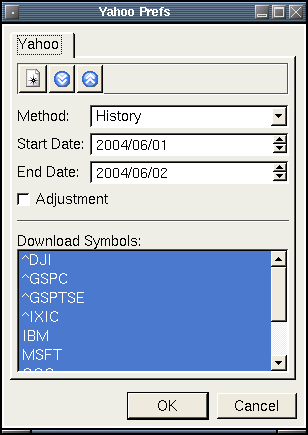
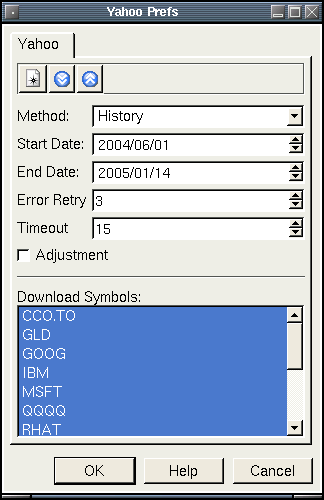
20050118134700

diff --git a/docs/math.html b/docs/math.html
@@ -12,20 +12,31 @@
 This plugin is only used in <a
  href="file:///home/me/mystuff/prog/qtstalker/docs/cus.html">CUS</a>
 type formulas. This plugin is used to either add, divide, multiply or
-subtract the
-data1 array by the data2 array.<br>
+subtract data arrays or value constants. You can select up to 5
+seperate data arrays or constants. The math follows a linear logic in
+the way the arrays are used. The plugin goes from data1 to data2 to
+data3 all the way to data5. So the order of how you set the various
+data arrays is critical for the result desired.<br>
 <br>
-Example: If the method used was ADD, then the Data1 array value would
-be added to the Data2 array value and the result returned. If the
-method used was DIV, then the Data1 array value would be divided by the
-Data2 array value and the result returned.<br>
+For example: We decide to add some data. We set data1 to use step 1. We
+set data2 to use step 2. We set data3 to a constant value of 1.5. This
+means the plugin would take the data1 array and then add the data2
+array to it. Finally the value constant of data3 is added to the sum of
+data1 and data2. This works the same for all the math functions of
+Add/Subtract/Divide/Multiply. In written math it would like this
+((data1 + data2) + data3).<br>
+<br>
+Using the above example and multiplying instead. The logic would take
+data1 and multiply it by data2. Then data3 would be multiplied with the
+result of data1 x data2. In written math it would like this ((data1 *
+data2) * data3). <br>
 <br>
 <h3>Parameters:</h3>
 <ul>
   <li>Color - plot color</li>
   <li>Line Type - The type of plot to draw</li>
   <li>Label - The text that identifies the plot</li>
-  <li><a href="ctypes.html">Data1</a> - The step # in a CUS formula<br>
+  <li><a href="ctypes.html">Data1</a> - The step # in a CUS formula.<br>
   </li>
   <li>Method - The math function to apply.</li>
   <ul>
@@ -40,12 +51,21 @@ division</li>
   <li><a href="file:///home/me/mystuff/prog/qtstalker/docs/ctypes.html">Data2</a>
 - The step # or constant value in
 a CUS formula</li>
+  <li><a href="ctypes.html">Data3</a> - The step # or constant value in
+a CUS formula</li>
+  <li><a href="ctypes.html">Data4</a> - The step # or constant value in
+a CUS formula</li>
+  <li><a href="ctypes.html">Data5</a> - The step # or constant value in
+a CUS formula</li>
   <li>Period - The period used for MIN and MAX functions only.</li>
 </ul>
 <ul>
 </ul>
 <br>
 <br>
+ border="0" height="32" width="32"></a>
+ border="0" height="32" width="32"></a><a href="toc.html"><img
+ src="home.png" alt="Home" border="0" height="32" width="32"></a>
 <a href="lowpass.html" target="_self"><img src="back.png" border="0" width="32" height="32" alt="Back"></a>
 <a href="ma.html" target="_self"><img src="next.png" border="0" width="32" height="32" alt="Next"></a>
 <a href="toc.html"><img src="home.png" border="0" width="32" height="32" alt="Home"></a>

diff --git a/docs/yahoo.html b/docs/yahoo.html
@@ -15,8 +15,7 @@
 supported exchanges are available
 with this plugin.<br>
 </p>
-<p><br>
-</p>
+<br>
 <h4>Adjustments:</h4>
 Yahoo provides an Adjusted Close column in its data,
 scaling prior closing prices to the most recent price based on stock
@@ -39,25 +38,39 @@ prices.<br>
 Most of the yahoo exchanges (except NA markets) have a 200 bar limit to
 the number of historical quotes that can be downloaded at one time. A
 work around for this is to download the data you need by doing it in
-several chunks of 250 days at a time. So, gettting many years worth of
+several chunks of 6 month intervals. So, gettting many years worth of
 data would take 6 or 7 download sessions by adjusting the start and end
-dates by 250 days at a time.<br>
+dates by 6 months at a time.<br>
 <br>
 <br>
 <h3>Input Parameters:</h3>
 <ul>
-  <li>Method - History for multiple quotes within the start and end
-dates input, or the most current single quote to download.<br>
+  <li>Method - The type of download quote data you want:<br>
   </li>
-  <li>End Date - The most recent date to include for update.</li>
-  <li>Start Date - The most distant date to include for update.</li>
+  <ul>
+    <li>History - Update history using a specific date range.<br>
+    </li>
+    <li>Auto History - Updates to the most recent history.<br>
+    </li>
+    <li>Quote - Updates the most recent intraday delayed quote.<br>
+    </li>
+  </ul>
+  <li>End Date - The most recent date to include for update. Used only
+for History method.<br>
+  </li>
+  <li>Start Date - The most distant date to include for update. Used
+only for History method.</li>
+  <li>Error Retry - The number of attempts to make if an error
+downloading the symbol occurs.</li>
+  <li>Timeout - The number of seconds to wait while downloading a
+symbol before moving on to the next symbol in the list.</li>
   <li>Adjustment - Propagate the Close/Adjusted Close factor to all
 price columns (i.e. adjust for stock splits and dividends).</li>
   <li>Download Symbols - Select the symbols to download by highlighting
 them.</li>
 </ul>
 <p></p>
-<img style="width: 308px; height: 435px;" alt="" src="yahoo1.png"><br>
+<img alt="" src="yahoo1.png" style="width: 324px; height: 500px;"><br>
 <p></p>
 <p></p>
 <p><br>
@@ -73,6 +86,9 @@ you want to download quotes.<br>
 <p><br>
 </p>
 <br>
+ border="0" height="32" width="32"></a>
+ border="0" height="32" width="32"></a><a href="toc.html"><img
+ src="home.png" alt="Home" border="0" height="32" width="32"></a>
 <a href="qtstalker.html" target="_self"><img src="back.png" border="0" width="32" height="32" alt="Back"></a>
 <a href="buyarrow.html" target="_self"><img src="next.png" border="0" width="32" height="32" alt="Next"></a>
 <a href="toc.html"><img src="home.png" border="0" width="32" height="32" alt="Home"></a>

diff --git a/docs/quick.html b/docs/quick.html
@@ -12,21 +12,28 @@
 <ol>
   <li>Connect to the internet.</li>
   <li>Open the quotes dialog from the toolbar.</li>
-  <li>Select the Yahoo plugin. Press the "New Chart" button. Click on
-the "New Symbols" item in the list.</li>
-  <li>Enter as many ticker symbols as you want separated by a space ie
-'RHAT IBM MSFT'. When done, press the OK button.</li>
-  <li>Press the settings button. Select the start and end dates you
-want quotes to include and press OK when done.<br>
+  <li>Select the Yahoo plugin. Press the configure 'Settings' button.
+This will bring up the Yahoo Prefs dialog.<br>
   </li>
-  <li>Press the update button, and the download will start. Depending
+  <li>From the Yahoo Prefs dialog press the 'New Symbol' button from
+the toolbar. This brings up the 'New Yahoo Symbols' dialog.<br>
+  </li>
+  <li>From the 'New Yahoo Symbols' dialog enter as many ticker symbols
+as you want separated by a space ie
+'RHAT IBM MSFT'. When done, press the OK button.</li>
+  <li>From the Yahoo Prefs dialog select 'Auto History' from the method
+box. Press the 'Select All Symbols' from the toolbar. Press OK when
+done.<br>
+  </li>
+  <li>From the Quotes dialog press the update button, and the download
+will start. Depending
 on how fast your connection is this could take anywhere from 10
 seconds to a few minutes. The data will be imported into Qtstalker
 when completed.</li>
   <li>Close the quotes dialog when download has completed. To load some
 charts, select the chart panel button. You should see a directory
 called
-"Stocks". Select the directory. A list of the symbols you entered
+'Stocks'. Select the directory. A list of the symbols you entered
 earlier will appear. Select a symbol to load by clicking on it.</li>
   <li>To add indicators, open the new indicator dialog from the toolbar
 and choose an indicator from the list. The indicator dialog will open,
@@ -39,6 +46,9 @@ familiar with how Qtstalker works.</li>
 <p></p>
 <p></p>
 <br>
+ border="0" height="32" width="32"></a>
+ border="0" height="32" width="32"></a><a href="toc.html"><img
+ src="home.png" alt="Home" border="0" height="32" width="32"></a>
 <a href="install.html" target="_self"><img src="back.png" border="0" width="32" height="32" alt="Back"></a>
 <a href="main.html" target="_self"><img src="next.png" border="0" width="32" height="32" alt="Next"></a>
 <a href="toc.html"><img src="home.png" border="0" width="32" height="32" alt="Home"></a>

diff --git a/docs/symbol.html b/docs/symbol.html
@@ -1,0 +1,39 @@
+<!DOCTYPE html PUBLIC "-//W3C//DTD HTML 4.01 Transitional//EN">
+<html>
+<head>
+  <title>Qtstalker: Symbol - SYMBOL</title>
+  <meta http-equiv="content-type"
+ content="text/html; charset=ISO-8859-1">
+</head>
+<body>
+<h2><u>Symbol - SYMBOL<br>
+</u></h2>
+<img alt="" src="symbol1.png" style="width: 415px; height: 191px;"><br>
+&nbsp;
+<br>
+<h3>Parameters:</h3>
+<ul>
+  <li>Color - Plot color</li>
+  <li>Line Type - The type of plot to draw</li>
+  <li>Label - The text that identifies the plot</li>
+  <li>Symbol - The symbol (ticker) to use<br>
+  </li>
+</ul>
+<h3>Description:</h3>
+Plots the close of a qtstalker symbol (ticker). This has many uses:<br>
+<br>
+1) If you want to compare a particular symbol side by side with another
+you can place the symbol in it's own tabbed indicator along side of the
+main plot.<br>
+2) You can also apply this onto the main chart and overlay it where the
+symbol will rescale itself to the current main plot. <br>
+<br>
+<br>
+ alt="Back" border="0" height="32" width="32"></a>
+ border="0" height="32" width="32"></a><a href="toc.html"><img
+ src="home.png" alt="Home" border="0" height="32" width="32"></a>
+<a href="stoch.html" target="_self"><img src="back.png" border="0" width="32" height="32" alt="Back"></a>
+<a href="trix.html" target="_self"><img src="next.png" border="0" width="32" height="32" alt="Next"></a>
+<a href="toc.html"><img src="home.png" border="0" width="32" height="32" alt="Home"></a>
+</body>
+</html>

diff --git a/docs/install.html b/docs/install.html
@@ -13,7 +13,7 @@
 <h3>Requirements</h3>
 <ol>
   <li>A Linux or FreeBSD compatible operating system.</li>
-  <li>At least the Qt 3.2* development library.
+  <li>At least the Qt 3.3* development library.
     <p></p>
   </li>
 </ol>
@@ -46,8 +46,25 @@ directory
 <p></p>
 <p></p>
 <p></p>
+<h3>Updating a previous version.<br>
+</h3>
+Updating from a previous source versionIf you are updating from a
+previous source version already installed on your system it is best
+that you first uninstall the previous version first before you install
+the upgraded version. Doing this will better ensure a problem free
+upgrade. Many upgrade errors can be caused by old plugins and libraries
+hanging around complicating things. You can uninstall the old version
+by doing a 'make uninstall' from the root directory of the old source
+install.<br>
+<br>
+Binary package users can ignore this advice as this will be done
+automatically by the package installer.<br>
 <br>
 <br>
+<br>
+ border="0" height="32" width="32"></a>
+ border="0" height="32" width="32"></a><a href="toc.html"><img
+ src="home.png" alt="Home" border="0" height="32" width="32"></a>
 <a href="intro.html" target="_self"><img src="back.png" border="0" width="32" height="32" alt="Back"></a>
 <a href="quick.html" target="_self"><img src="next.png" border="0" width="32" height="32" alt="Next"></a>
 <a href="toc.html"><img src="home.png" border="0" width="32" height="32" alt="Home"></a>

diff --git a/docs/toc.html b/docs/toc.html
@@ -143,7 +143,6 @@
   <li><a href="maosc.html">Moving Average Oscillator - MAOSC</a></li>
   <li><a href="mf.html">Money Flow - MF</a></li>
   <li><a href="mom.html">Momentum - MOM</a></li>
-  <li><a href="ovrly.html">Price/Performance Overlay - OVRLY</a></li>
   <li><a href="pc.html">Percent Change - PC</a></li>
   <li><a href="per.html">Performance - PER</a></li>
   <li><a href="pp.html">Pivot Point - PP</a></li>
@@ -154,6 +153,8 @@
   <li><a href="sar.html">Parabolic SAR - SAR</a></li>
   <li><a href="sd.html">Standard Deviation - SD</a></li>
   <li><a href="stoch.html">Stochastic - STOCH</a></li>
+  <li><a href="symbol.html">Symbol - SYMBOL</a><br>
+  </li>
   <li><a href="trix.html">TRIX - TRIX</a></li>
   <li><a href="uo.html">Ultimate Oscillator - UO</a></li>
   <li><a href="vol.html">Volume - VOL</a></li>
@@ -176,8 +177,9 @@
 <br>
 <br>
 <br>
- border="0" height="32" width="32"></a>
- width="32"></a>
+border="0" height="32" width="32"&gt; width="32"&gt;
+ border="0" height="32" width="32"></a><a href="toc.html"><img
+ src="home.png" alt="Home" border="0" height="32" width="32"></a>
 <a href="intro.html" target="_self"><img src="next.png" border="0" width="32" height="32" alt="Next"></a>
 <a href="toc.html"><img src="home.png" border="0" width="32" height="32" alt="Home"></a>
 </body>

diff --git a/docs/main.html b/docs/main.html
@@ -17,15 +17,9 @@ like. The basic parts of the app going from top to bottom are:</p>
   <li>The menu bar.</li>
   <li>The tool bar area consists of access to the most used charting
 functions like chart types, bar spacing, grid, bars etc.</li>
-  <li>
-    <ol>
-    </ol>
-  </li>
   <li>The chart, groups, indicator, portfolio and backtesting and
 scanner panel buttons. These buttons give you access to assorted
 functions that apply to each.</li>
-  <ol>
-  </ol>
   <li>Main chart. This is the main plot for Open, High, Low, Close data
 for every chart. Any indicators that apply to OHLC data will also be
 plotted here. eg Bollinger Bands, MA's etc.</li>
@@ -41,6 +35,9 @@ not stacked will be plotted here. eg. MACD, RSI etc.<br>
 <p><img style="width: 821px; height: 778px;" alt="" src="main.png"><br>
 </p>
 <br>
+ border="0" height="32" width="32"></a>
+ border="0" height="32" width="32"></a><a href="toc.html"><img
+ src="home.png" alt="Home" border="0" height="32" width="32"></a>
 <a href="quick.html" target="_self"><img src="back.png" border="0" width="32" height="32" alt="Back"></a>
 <a href="title.html" target="_self"><img src="next.png" border="0" width="32" height="32" alt="Next"></a>
 <a href="toc.html"><img src="home.png" border="0" width="32" height="32" alt="Home"></a>

diff --git a/docs/ctypes.html b/docs/ctypes.html
@@ -53,12 +53,18 @@ line 1 in the formula.</li>
 values. It behaves exactly like data1 as well as being able to use a
 constant value. ie #10.375. To specify a value constant use the # sign
 to distinguish between a constant value and a formula line number.</li>
+  <li>Data3 - Same as Data2</li>
+  <li>Data4 - Same as Data2</li>
+  <li>Data5 - Same as Data2</li>
 </ul>
 <br>
 <br>
 <br>
 <br>
 <br>
+ border="0" height="32" width="32"></a>
+ alt="Next" border="0" height="32" width="32"></a><a href="toc.html"><img
+ src="home.png" alt="Home" border="0" height="32" width="32"></a>
 <a href="faq.html" target="_self"><img src="back.png" border="0" width="32" height="32" alt="Back"></a>
 <a href="newchartobject.html" target="_self"><img src="next.png" border="0" width="32" height="32" alt="Next"></a>
 <a href="toc.html"><img src="home.png" border="0" width="32" height="32" alt="Home"></a>

diff --git a/docs/stoch.html b/docs/stoch.html
@@ -29,7 +29,7 @@
 <h3>Description:</h3>
 <br>
 <a href="sd.html" target="_self"><img src="back.png" border="0" width="32" height="32" alt="Back"></a>
-<a href="trix.html" target="_self"><img src="next.png" border="0" width="32" height="32" alt="Next"></a>
+<a href="symbol.html" target="_self"><img src="next.png" border="0" width="32" height="32" alt="Next"></a>
 <a href="toc.html"><img src="home.png" border="0" width="32" height="32" alt="Home"></a>
 </body>
 </html>

diff --git a/docs/trix.html b/docs/trix.html
@@ -26,7 +26,7 @@
 </ul>
 <h3>Description:</h3>
 <br>
-<a href="stoch.html" target="_self"><img src="back.png" border="0" width="32" height="32" alt="Back"></a>
+<a href="symbol.html" target="_self"><img src="back.png" border="0" width="32" height="32" alt="Back"></a>
 <a href="uo.html" target="_self"><img src="next.png" border="0" width="32" height="32" alt="Next"></a>
 <a href="toc.html"><img src="home.png" border="0" width="32" height="32" alt="Home"></a>
 </body>

diff --git a/docs/pc.html b/docs/pc.html
@@ -20,7 +20,7 @@
 <h3>Description:</h3>
 <br>
 <br>
-<a href="ovrly.html" target="_self"><img src="back.png" border="0" width="32" height="32" alt="Back"></a>
+<a href="mom.html" target="_self"><img src="back.png" border="0" width="32" height="32" alt="Back"></a>
 <a href="per.html" target="_self"><img src="next.png" border="0" width="32" height="32" alt="Next"></a>
 <a href="toc.html"><img src="home.png" border="0" width="32" height="32" alt="Home"></a>
 </body>

diff --git a/docs/mom.html b/docs/mom.html
@@ -23,7 +23,7 @@
 <br>
 <br>
 <a href="mf.html" target="_self"><img src="back.png" border="0" width="32" height="32" alt="Back"></a>
-<a href="ovrly.html" target="_self"><img src="next.png" border="0" width="32" height="32" alt="Next"></a>
+<a href="pc.html" target="_self"><img src="next.png" border="0" width="32" height="32" alt="Next"></a>
 <a href="toc.html"><img src="home.png" border="0" width="32" height="32" alt="Home"></a>
 </body>
 </html>
